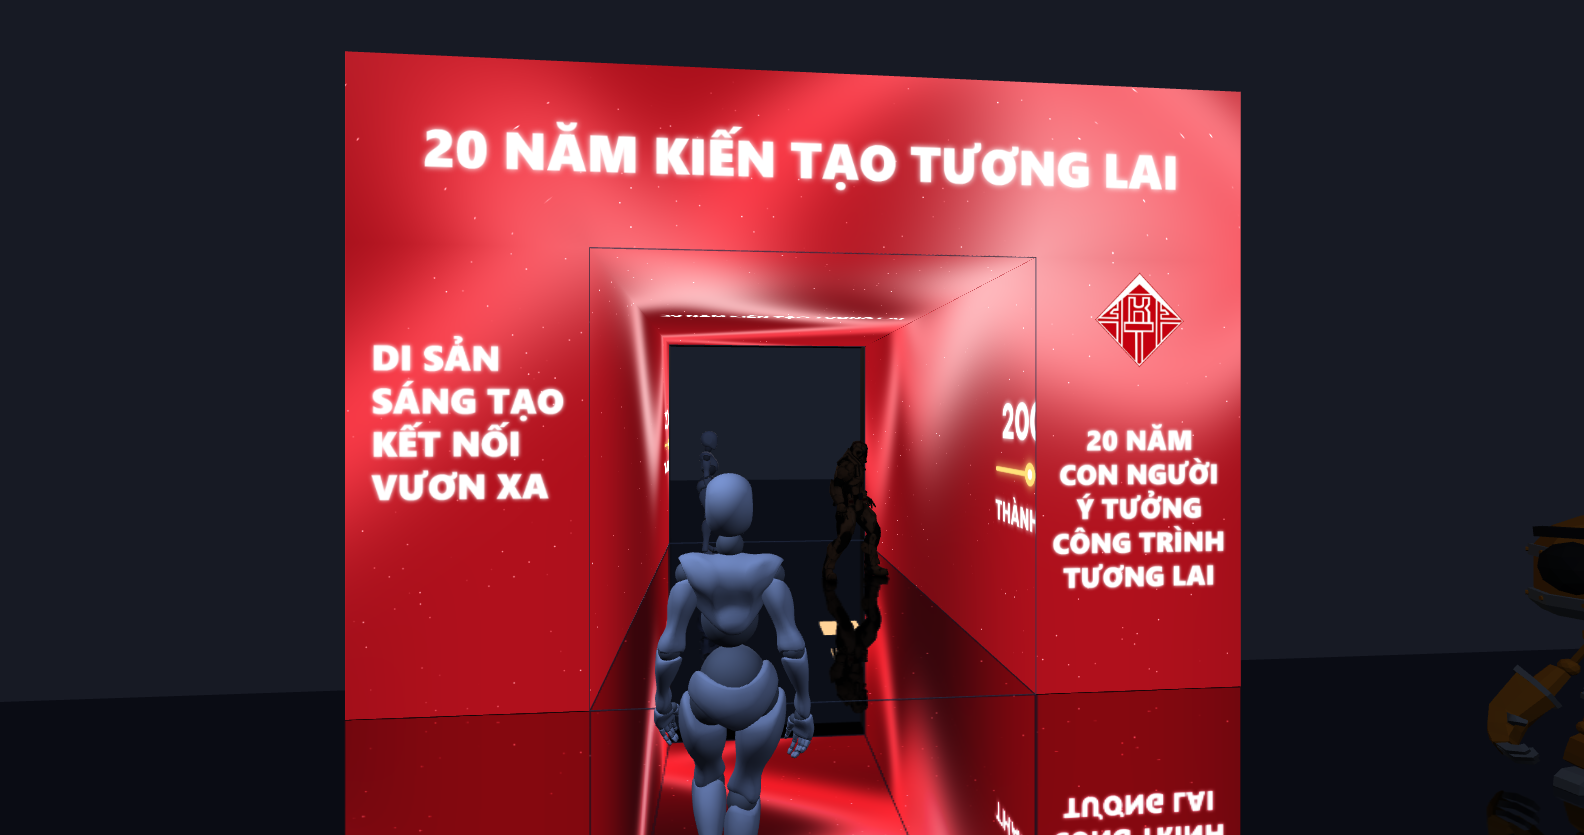
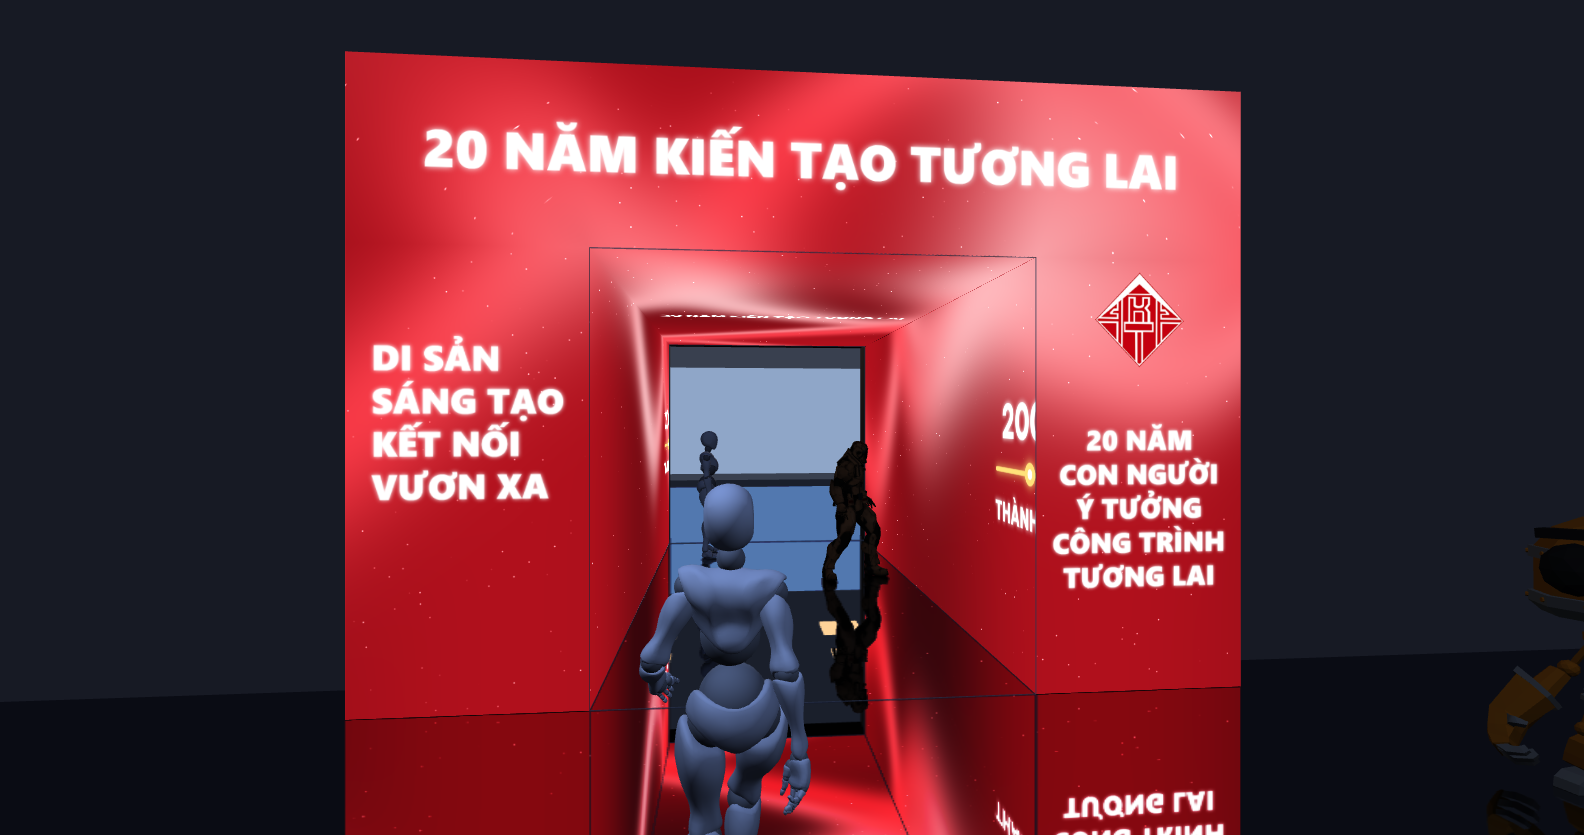
Sảnh trong nhà có vách kính sáng; chỉnh góc máy bộ ảnh giới thiệu
- Lối ra cuối hầm không còn là hố đen: tường sảnh sáng hơn + vách kính phát sáng
- make-screenshots: ảnh "trong cổng" nhìn dọc hầm, ảnh "cổng thời gian" lệch trục để không bị nhân vật che

Changed region(s): [[0.4021, 0.4048, 0.5568, 1.0], [0.9899, 0.6228, 1.0, 0.6539]]

diff --git a/src/render/preview.ts b/src/render/preview.ts
@@ -131,8 +131,9 @@ export class Preview {
     if (FH > H + T) back(-W / 2 - T, W / 2 + T, H + T, FH);
     // toà nhà phía sau và sảnh trong: không phụ thuộc đèn (MeshBasic) để luôn thấy được, dù mờ
     const far = new THREE.MeshBasicMaterial({ color: 0x171a24 });
-    const lobby = new THREE.MeshBasicMaterial({ color: 0x1a1f2b });
+    const lobby = new THREE.MeshBasicMaterial({ color: 0x39404f });
     const lamp = new THREE.MeshBasicMaterial({ color: 0xffe2b8 });
+    const glass = new THREE.MeshBasicMaterial({ color: 0x8fa6c8 });
     box(-14, -FW / 2, 0, 9, -T - 0.4, -T, far);
     box(FW / 2, 14, 0, 9, -T - 0.4, -T, far);
     box(-14, 14, FH, 9, -T - 0.4, -T, far);
@@ -144,6 +145,8 @@ export class Preview {
       for (const x of [-2.6, 2.6]) box(x - 0.55, x + 0.55, 4.1, 4.2, z - 0.5, z + 0.5, lamp);
     }
     for (const x of [-5.5, 5.5]) box(x - 0.35, x + 0.35, 0, 4.2, -L - 6, -L - 5.3, far);
+    // vách kính sáng cuối sảnh: cho lối ra có ánh sáng thay vì hố đen
+    box(-7, 7, 0.2, 3.4, -L - 10.55, -L - 10.5, glass);
     // đèn sảnh trong (ấm) và đèn sân ngoài (lạnh) để nhân vật, sàn và tường sảnh có khối
     const warm = new THREE.PointLight(0xffd9a8, 60, 40, 2);
     warm.position.set(0, 3.8, -L - 6);
